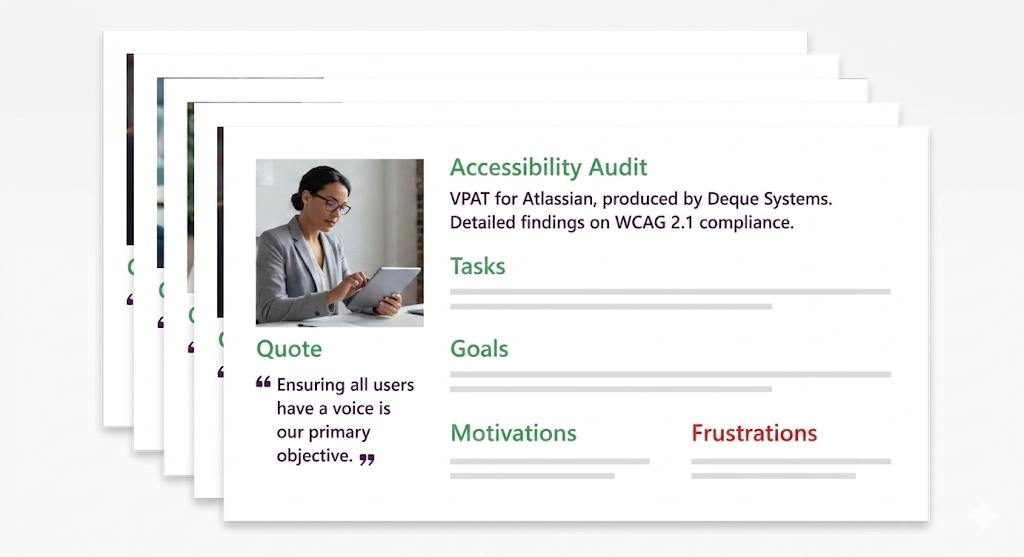
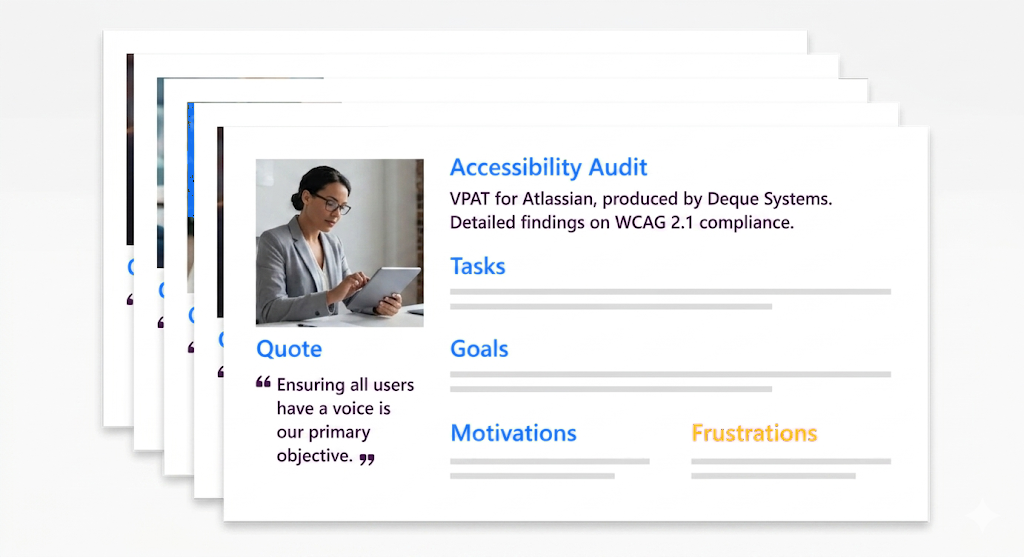
Accessibility: recolor The Audit tile to the bright-blue + yellow palette (greens->blue, Frustrations->yellow)

diff --git a/accessibility.html b/accessibility.html
@@ -221,7 +221,7 @@
   <div class="wrap" style="display:flex;flex-direction:column;gap:130px">
 
     <div class="feat">
-      <div class="fpanel"><img src="assets/img/a11y-personas.png" alt="VPAT audit and persona cards for users with disabilities" /></div>
+      <div class="fpanel"><img src="assets/img/a11y-personas.png?v=2" alt="VPAT audit and persona cards for users with disabilities" /></div>
       <div class="feat-text">
         <p class="feat-label">The Audit</p>
         <h3 class="feat-title">A VPAT Audit uncovered many critical issues</h3>
